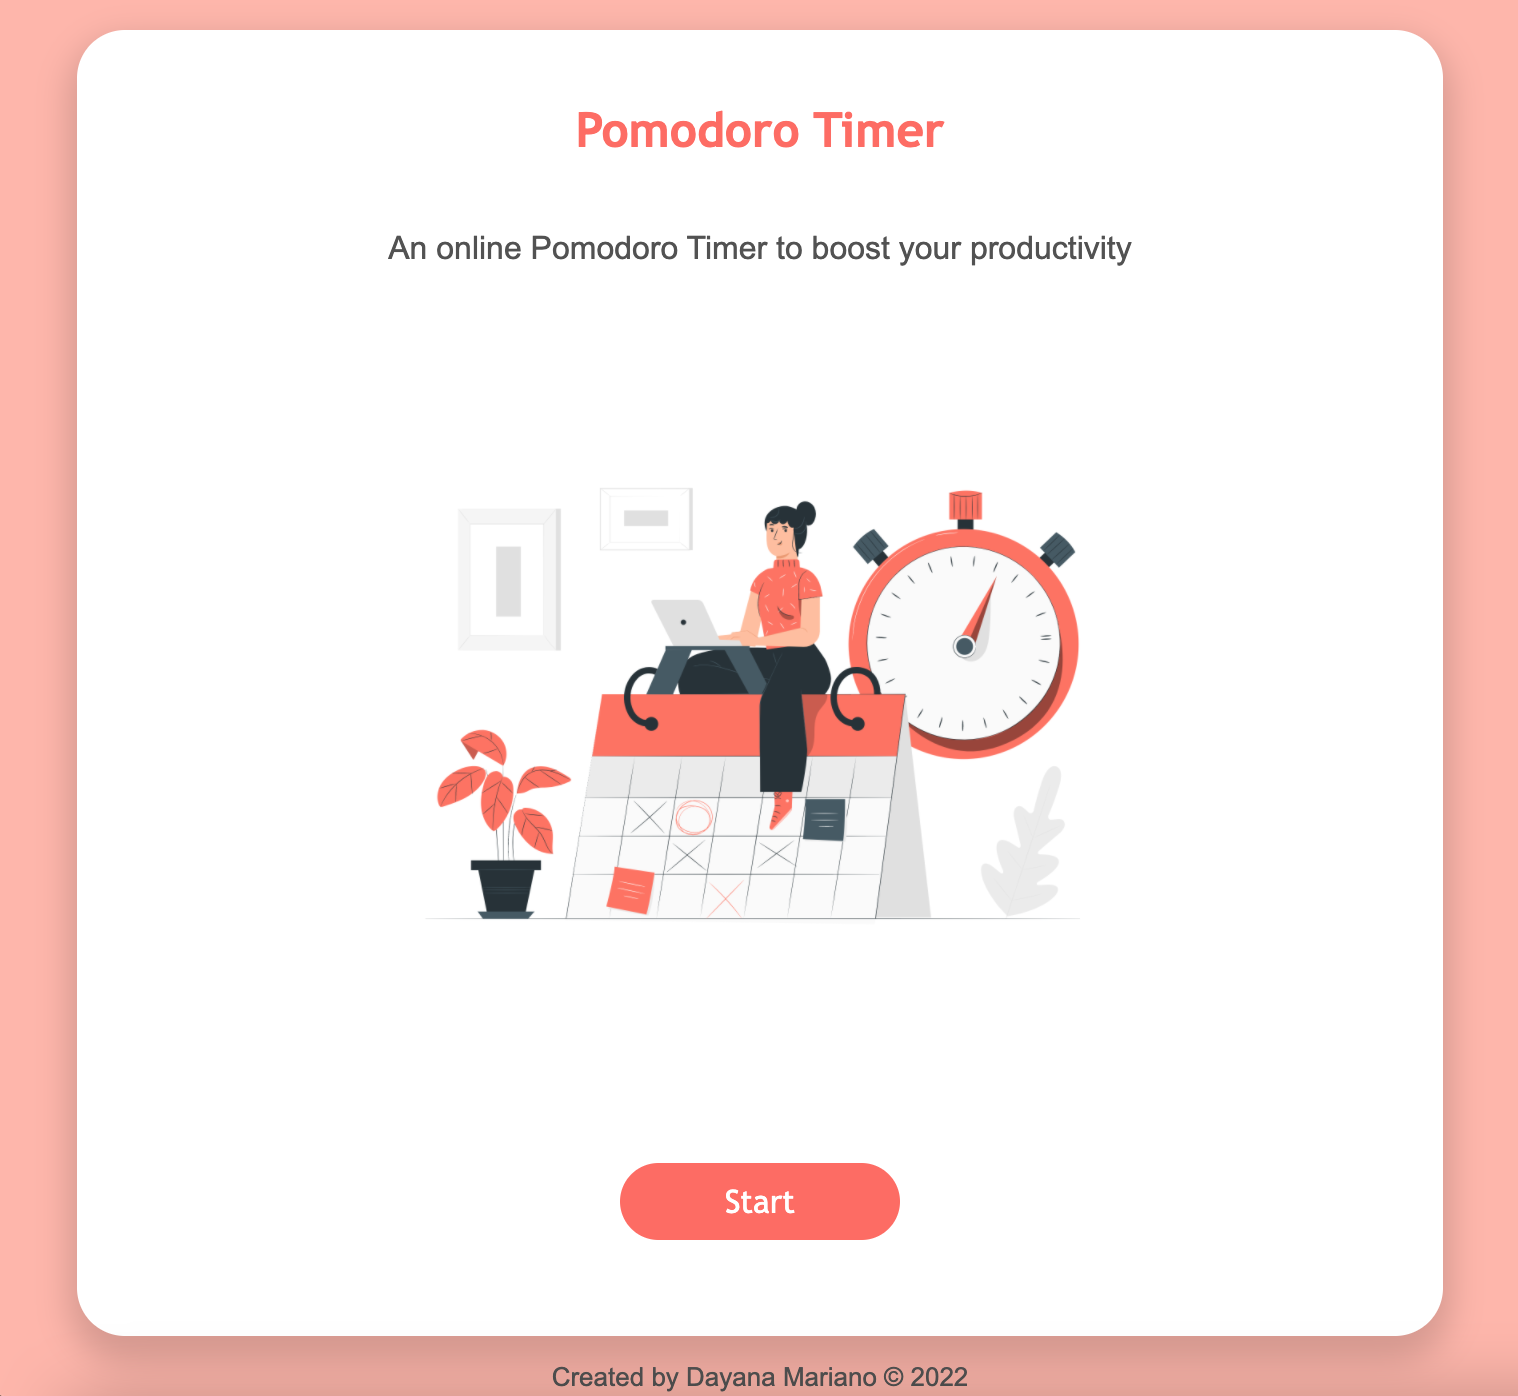
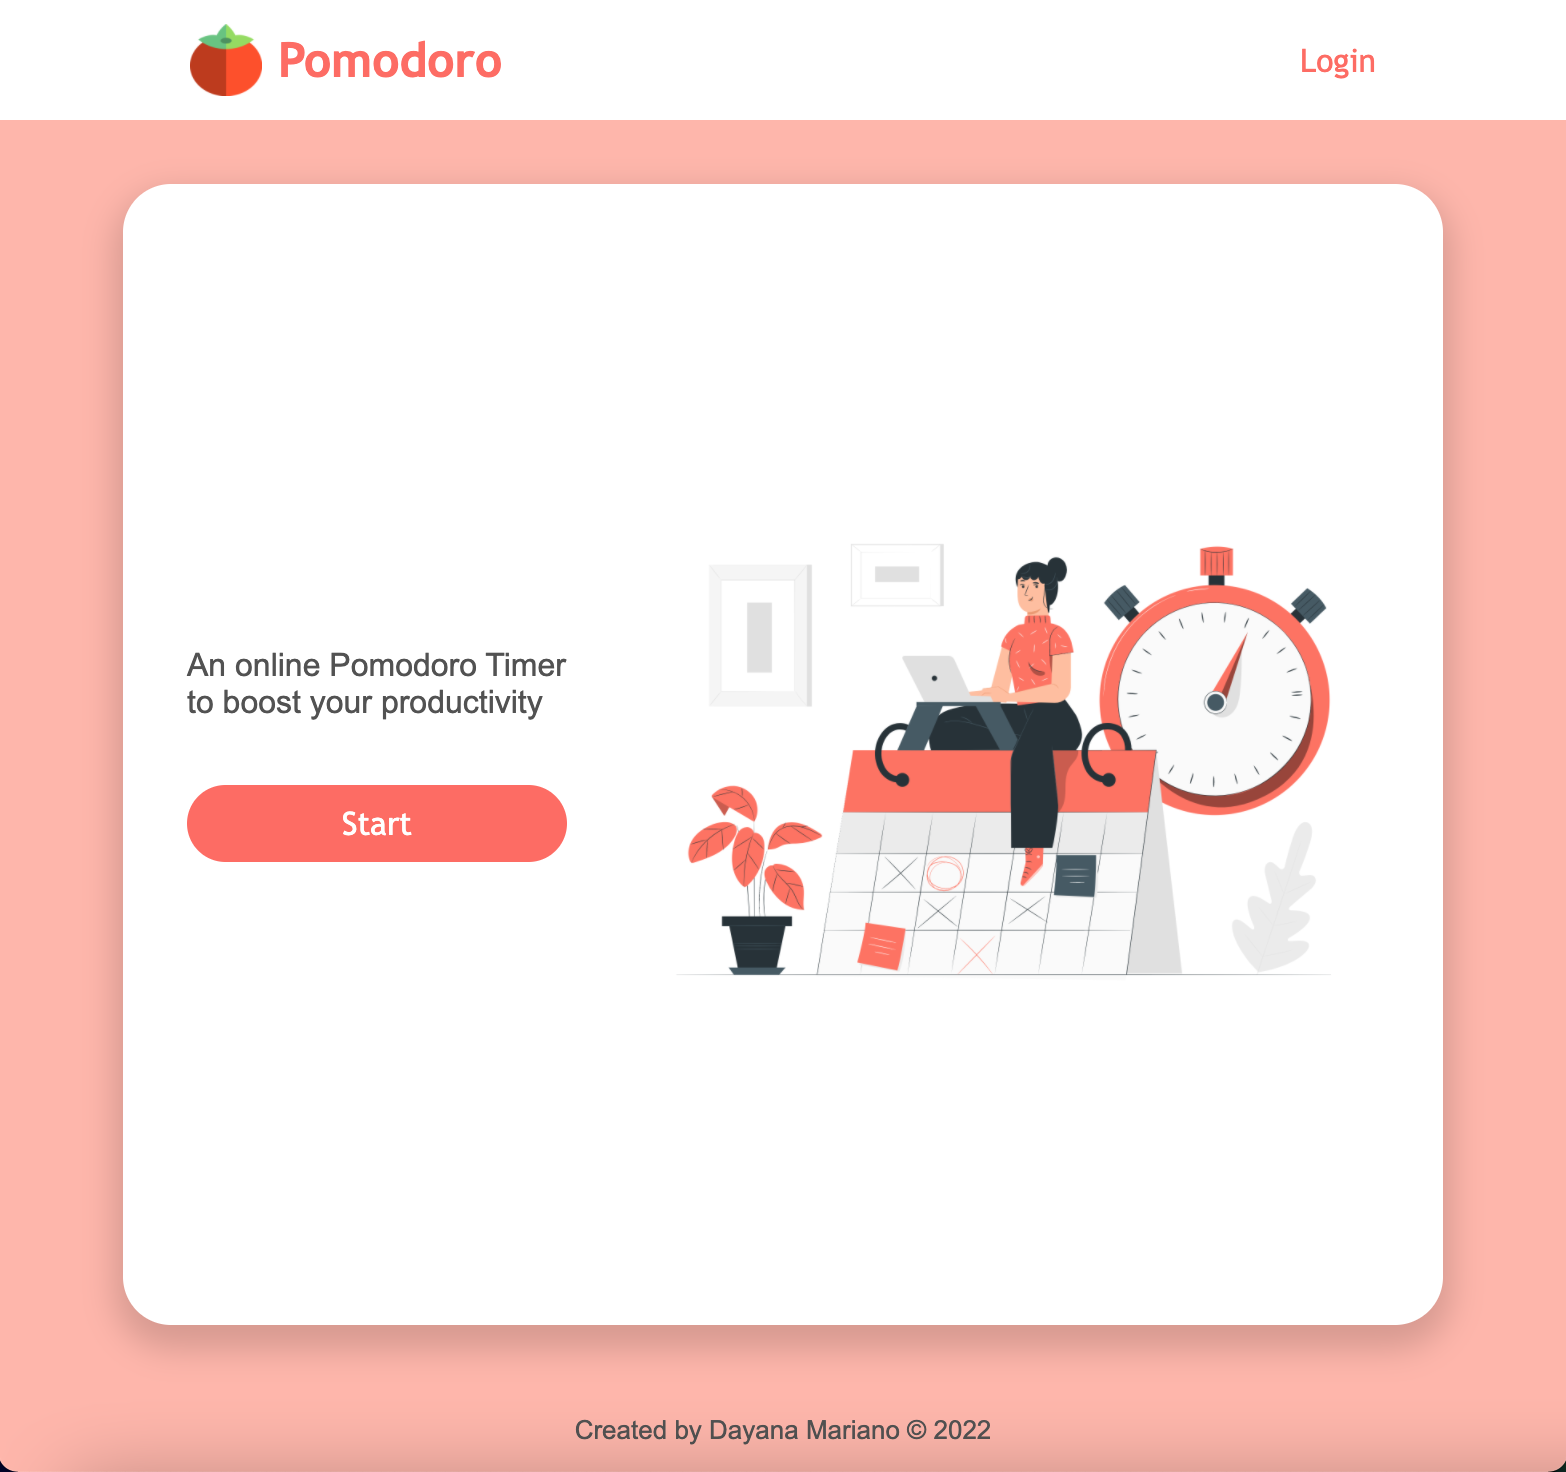
update style

diff --git a/index.html b/index.html
@@ -24,12 +24,15 @@
         </div>
         <a href="login.html" class="menuButtons">Login</a>
     </header>
-    <section>
-        <p>An online Pomodoro Timer to boost your productivity</p>
+    <section id="homeSection">
+        <div id="homeDiv">
+            <p>An online Pomodoro Timer to boost your productivity</p>
+            <a href="timer.html" class="buttons primary-button" id="startButton">Start</a>
+        </div>
 
         <div class="imgWrapper"><img src="images/Timemanagement-pana.png" id="imgtime"></div>
     </section>
-    <a href="timer.html" class="buttons primary-button">Start</a>
+    
 </body>
 <footer>
     <p>Created by Dayana Mariano © 2022</p>

diff --git a/home.css b/home.css
@@ -1,3 +1,30 @@
+#homeSection {
+    display: flex;
+    flex-direction: row;
+    justify-content: space-evenly;
+    padding: 1rem;
+}
+
+@media (max-width: 768px) {
+    #homeSection {
+        flex-direction: column;
+    }
+    #homeDiv {
+        align-items: center;
+    }
+    #startButton {
+        margin: auto;
+    }
+}
+#homeDiv {
+    display: flex;
+    flex-direction: column;
+    margin: 0 1rem;
+}
+#startButton {
+    margin: 1rem 0px;
+}
+
 #imgtime {
     width: 400px;
 }

diff --git a/main.css b/main.css
@@ -12,6 +12,7 @@ body {
     background-color: var(--secondary-color);
     display: flex;
     justify-content: space-between;
+    /* align-items: baseline; */
     flex-direction: column;
     padding: 0%;
     margin: 0%;
@@ -79,7 +80,6 @@ p {
 
 .buttons {
     max-width: 400px;
-    /*min-width: 100px;*/
     margin: 2rem;
     padding: 10px 20px;
     border-radius: 100px;

diff --git a/readme.md b/readme.md
@@ -1,11 +1,17 @@
 # Pomodoro timer
 Repository for a Pomodoro timer aplication.
-Made with HTML, CSS and JavaScript.
+With pomodoro, short break and long break.
 
-- pomodoro
-- short break
-- long break.
+- Home page
+- Timer page (pomodoro, short break and long break)
+- login page
+
+## Built with
+- HTML
+- CSS
+- JavaScript
 
 ![Preview](images/preview1.png)
 ![Preview](images/preview2.png)
+![Preview](images/preview3.png)
 
